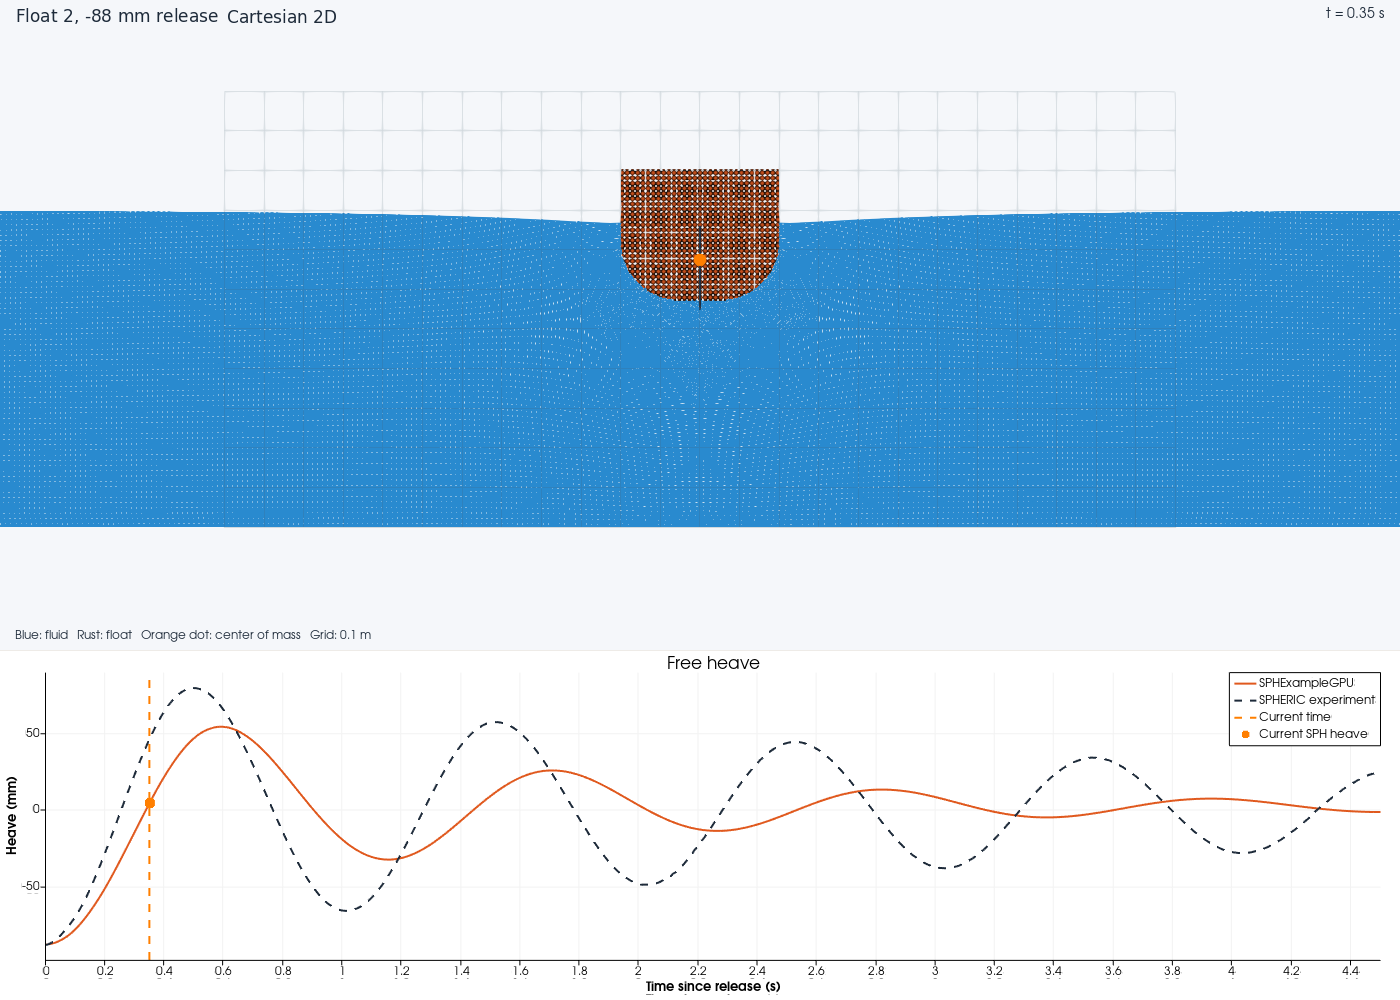
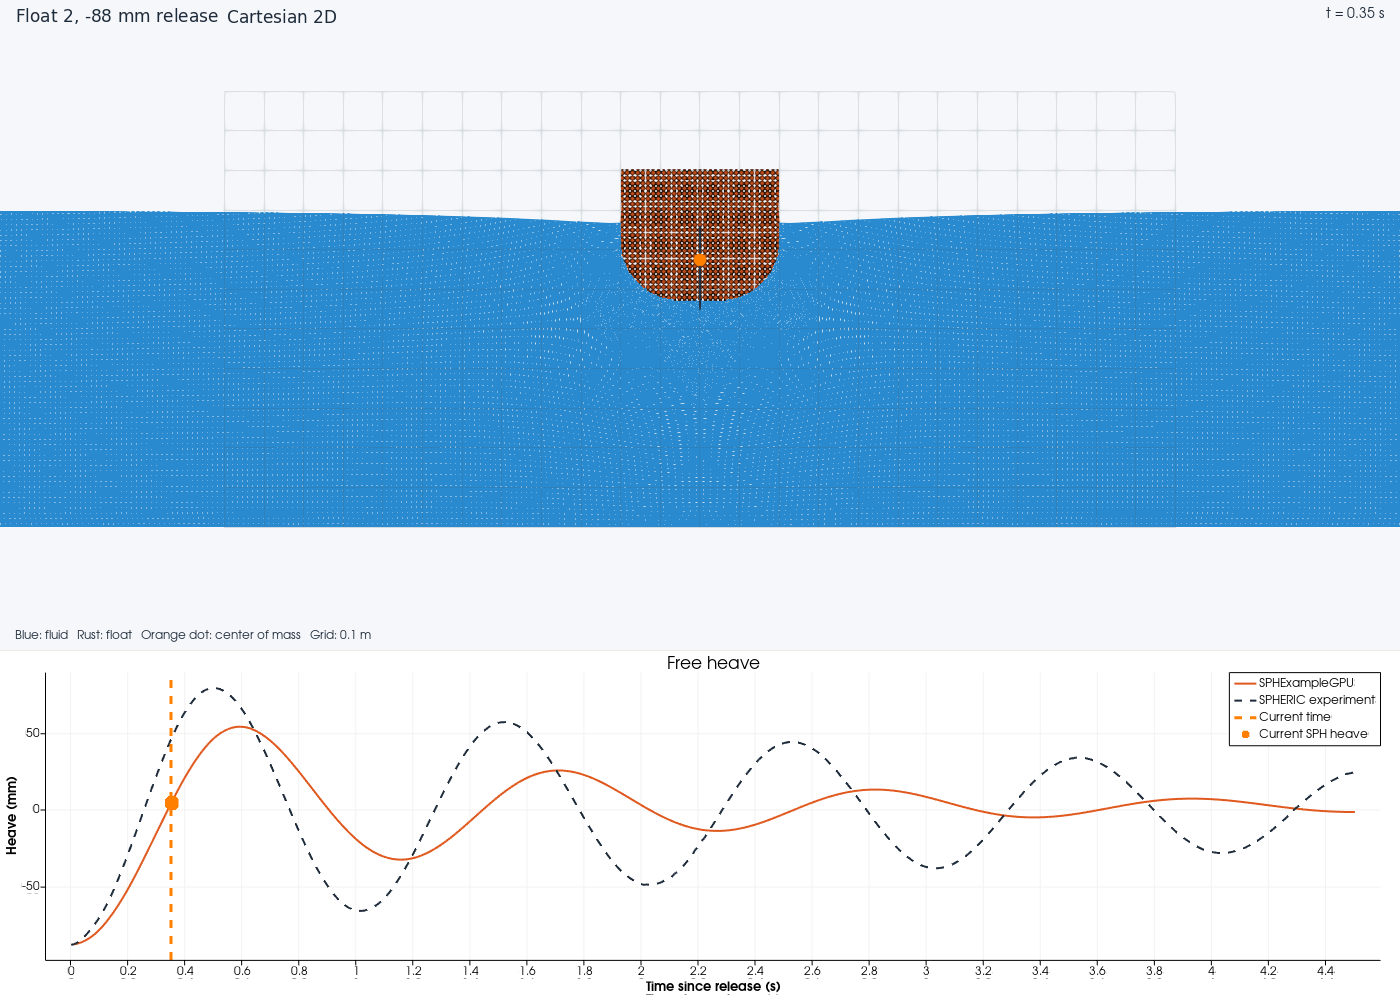
Initialize ParaView heave cursor and retain endpoint visibility

diff --git a/gpu_version/validation cases/spheric_test_14/paraview_heave.py b/gpu_version/validation cases/spheric_test_14/paraview_heave.py
@@ -52,6 +52,7 @@ def chart_series(rows, name, state, chart, color, style):
         writer.writerow(("time", "heave_mm"))
         writer.writerows(rows)
     source = CSVReader(registrationName=name, FileName=[path.as_posix()])
+    source.UpdatePipeline()
     display = Show(source, chart, "XYChartRepresentation")
     display.UseIndexForXAxis = 0
     display.XArrayName = "time"
@@ -104,6 +105,7 @@ def chart_playhead(chart, rows, lower, upper):
                 column.InsertNextValue(item)
             table.AddColumn(column)
         """)
+    source.UpdatePipeline(times[0])
     display = Show(source, chart, "XYChartRepresentation")
     display.UseIndexForXAxis = 0
     display.XArrayName = "time"
@@ -111,9 +113,9 @@ def chart_playhead(chart, rows, lower, upper):
     display.SeriesLabel = ["Playhead", "Current time", "Current heave", "Current SPH heave"]
     display.SeriesColor = ["Playhead", *map(str, CURSOR), "Current heave", *map(str, CURSOR)]
     display.SeriesLineStyle = ["Playhead", "2", "Current heave", "0"]
-    display.SeriesLineThickness = ["Playhead", "2"]
+    display.SeriesLineThickness = ["Playhead", "3"]
     display.SeriesMarkerStyle = ["Playhead", "0", "Current heave", "4"]
-    display.SeriesMarkerSize = ["Playhead", "0", "Current heave", "11"]
+    display.SeriesMarkerSize = ["Playhead", "0", "Current heave", "15"]
     return source
 
 
@@ -210,11 +212,13 @@ def line_script(lines):
 
 
 def particle_type(particles, kind, name):
+    particles.UpdatePipeline()
     selected = Threshold(registrationName=name, Input=particles)
     selected.Scalars = ["POINTS", "Type"]
     selected.LowerThreshold = kind
     selected.UpperThreshold = kind
     selected.ThresholdMethod = "Between"
+    selected.UpdatePipeline()
     return selected
 
 
@@ -268,7 +272,9 @@ def build_view(args):
     layout.AssignView(2, chart)
 
     reader = VTKHDFReader(registrationName="Test 14 particle history", FileName=[args.particles.as_posix()])
+    reader.UpdatePipelineInformation()
     reader.PointArrayStatus = ["Type"]
+    reader.UpdatePipeline(simulation[0][0])
     particles = ExtractBlock(registrationName="Particles", Input=reader)
     particles.Selectors = ["/Root/Particles"]
     # Point exports have no cells. Give each point a vertex for Threshold.
@@ -331,8 +337,9 @@ def build_view(args):
     chart.BottomAxisTitle = "Time since release (s)"
     chart.LeftAxisTitle = "Heave (mm)"
     chart.BottomAxisUseCustomRange = 1
-    chart.BottomAxisRangeMinimum = simulation[0][0]
-    chart.BottomAxisRangeMaximum = simulation[-1][0]
+    time_margin = 0.02 * (simulation[-1][0] - simulation[0][0])
+    chart.BottomAxisRangeMinimum = simulation[0][0] - time_margin
+    chart.BottomAxisRangeMaximum = simulation[-1][0] + time_margin
     values = [heave for time, heave in simulation + reference if simulation[0][0] <= time <= simulation[-1][0]]
     margin = max(1, 0.06 * (max(values) - min(values)))
     chart.LeftAxisUseCustomRange = 1

diff --git a/gpu_version/validation cases/spheric_test_14/test_paraview_heave.py b/gpu_version/validation cases/spheric_test_14/test_paraview_heave.py
@@ -39,6 +39,9 @@ def check(launcher):
     cursor = FindSource("Animation playhead")
     marker = FindSource("Moving center of mass")
     display = GetRepresentation(cursor, chart)
+    assert display.Visibility == 1
+    assert chart.BottomAxisRangeMinimum < history[0][0]
+    assert chart.BottomAxisRangeMaximum > history[-1][0]
     assert "Current heave" in display.SeriesVisibility
     assert list(display.SeriesMarkerStyle)[-1] == "4"
     assert list(display.SeriesLineStyle)[1] == "2"

diff --git a/gpu_version/validation cases/spheric_test_14/README.md b/gpu_version/validation cases/spheric_test_14/README.md
@@ -84,6 +84,9 @@ and dashed orange time line together. The chart dot follows the simulated heave
 curve. Both markers interpolate between saved samples when seeking to an
 intermediate time, and retain their behavior after saving and reopening the
 `.pvsm`. State generation checks that the center and heave histories agree.
+The chart includes a small time-axis margin so the vertical line and dot stay
+inside the plot at the first and last frames. Data columns are initialized
+before applying chart-series and particle-selection settings in the GUI.
 
 ![Fluid, moving center and synchronized heave cursor](images/paraview_heave_motion.png)
 
